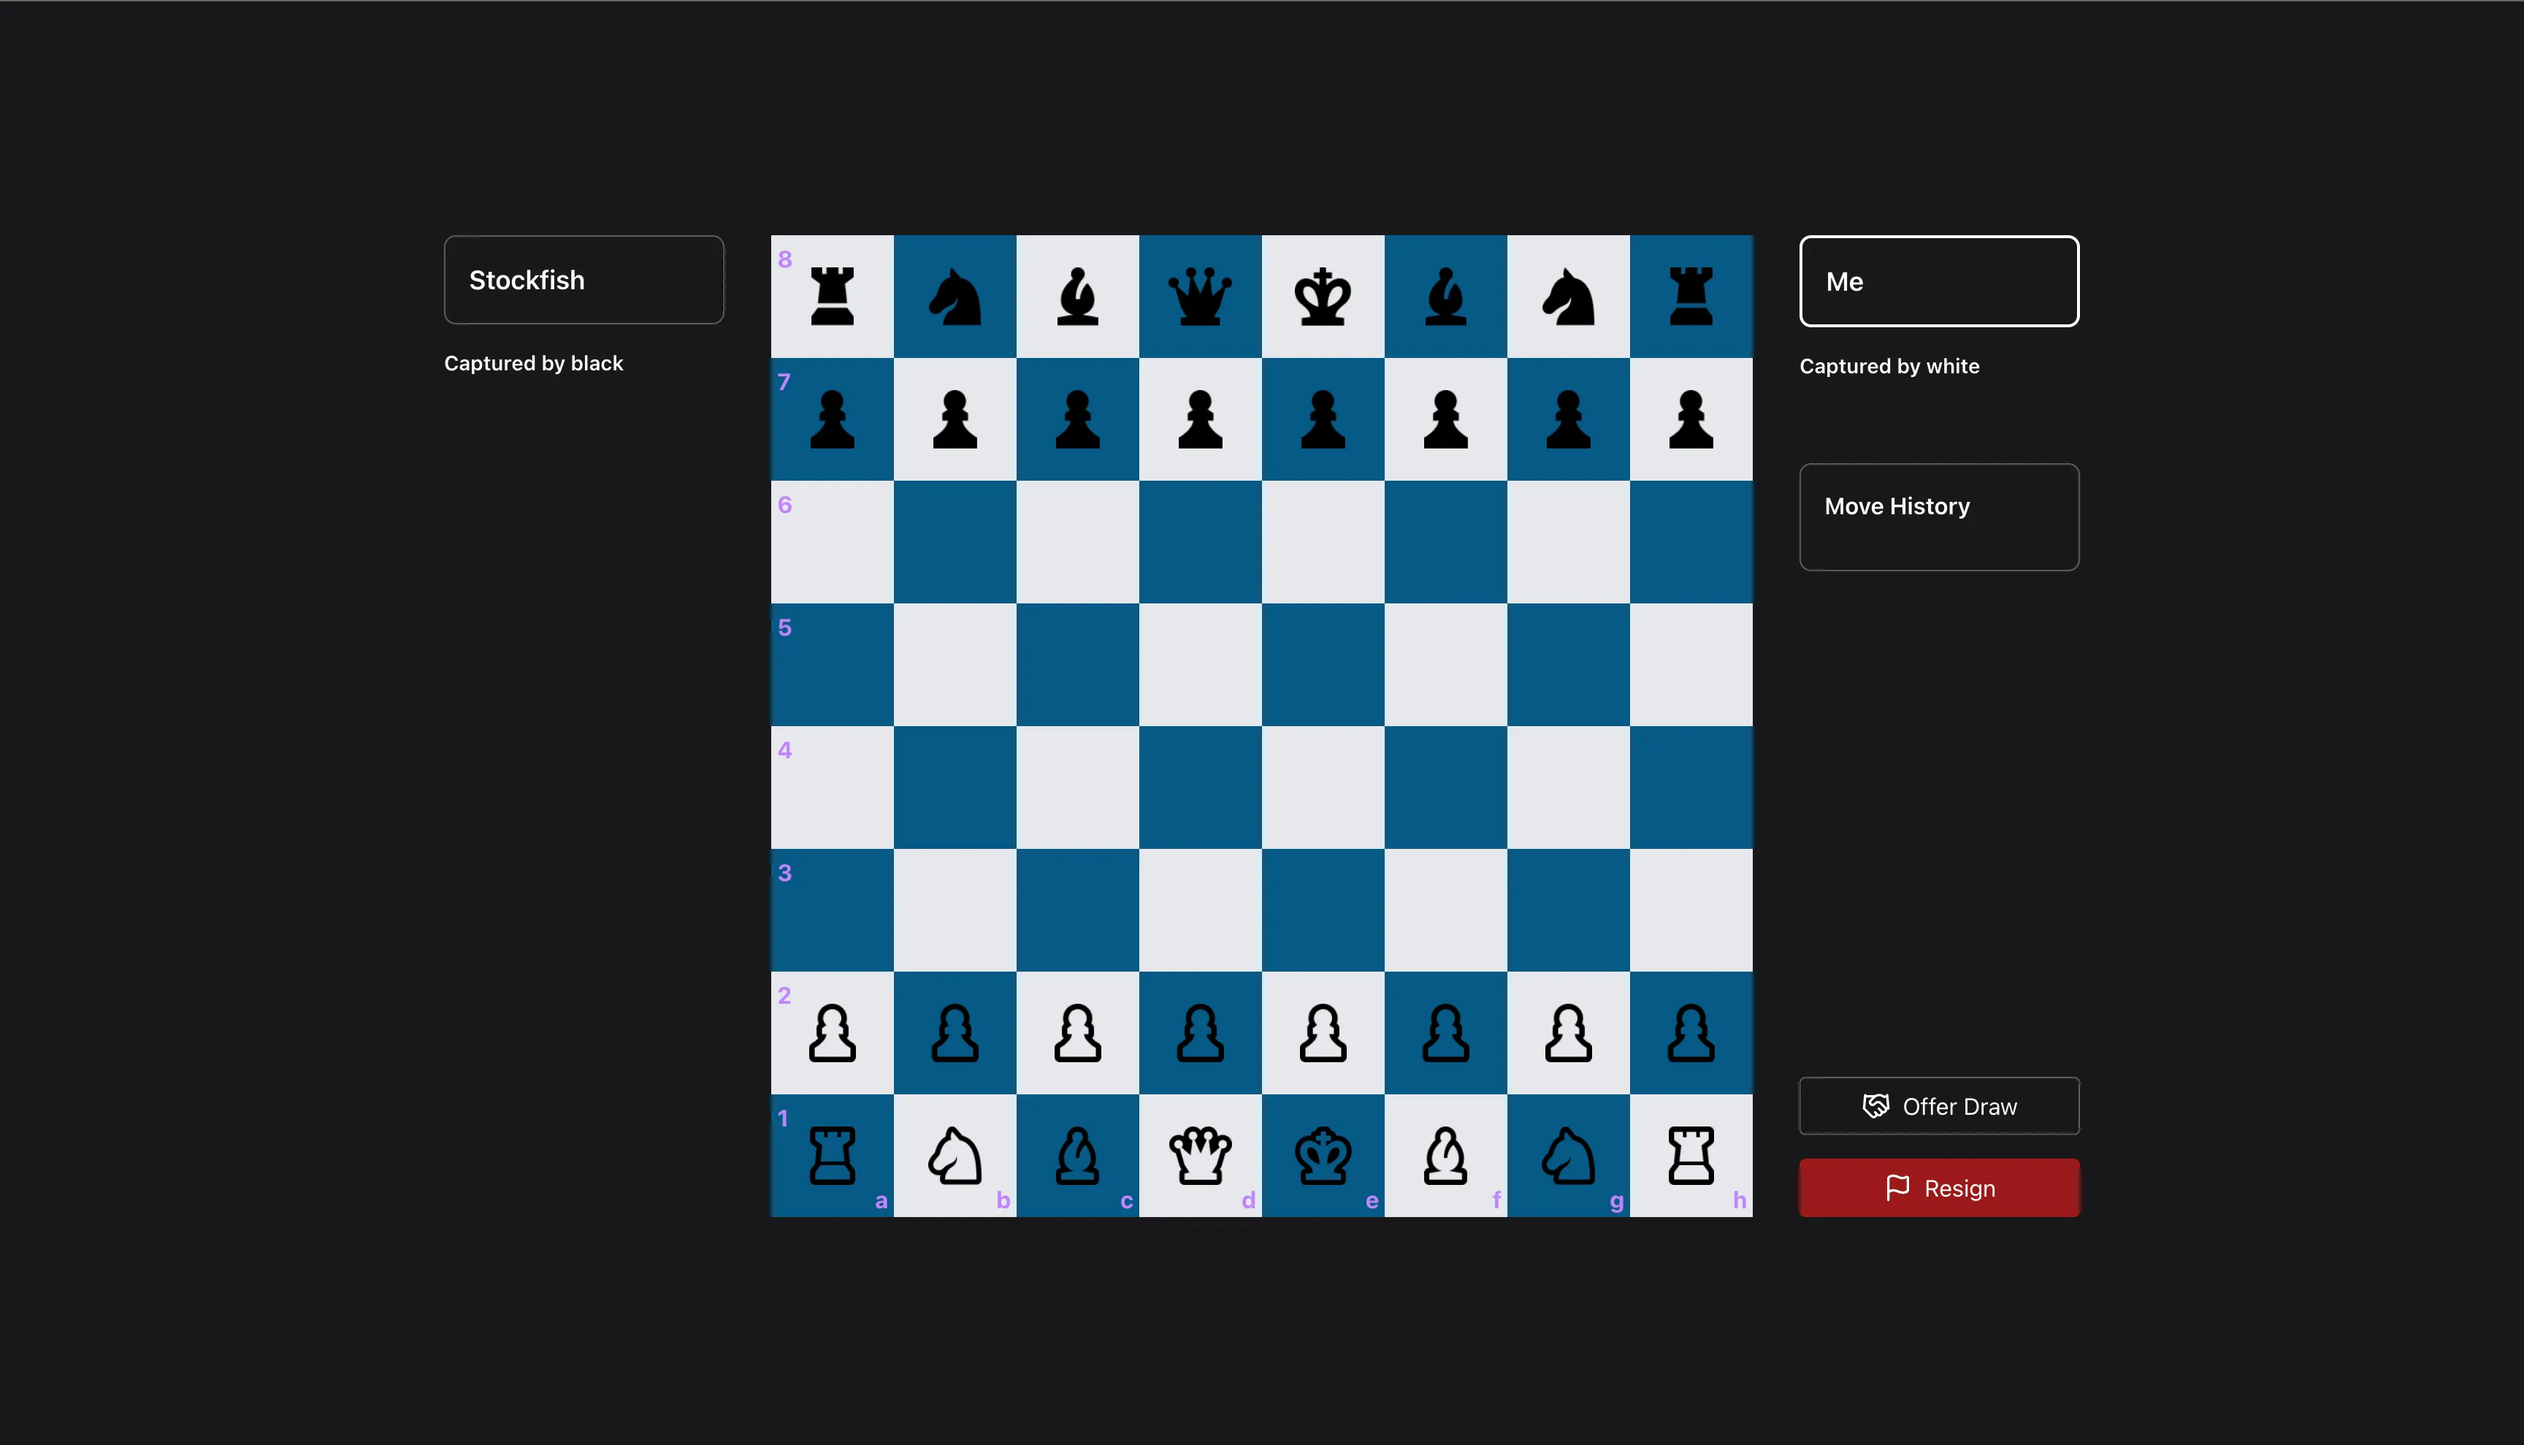
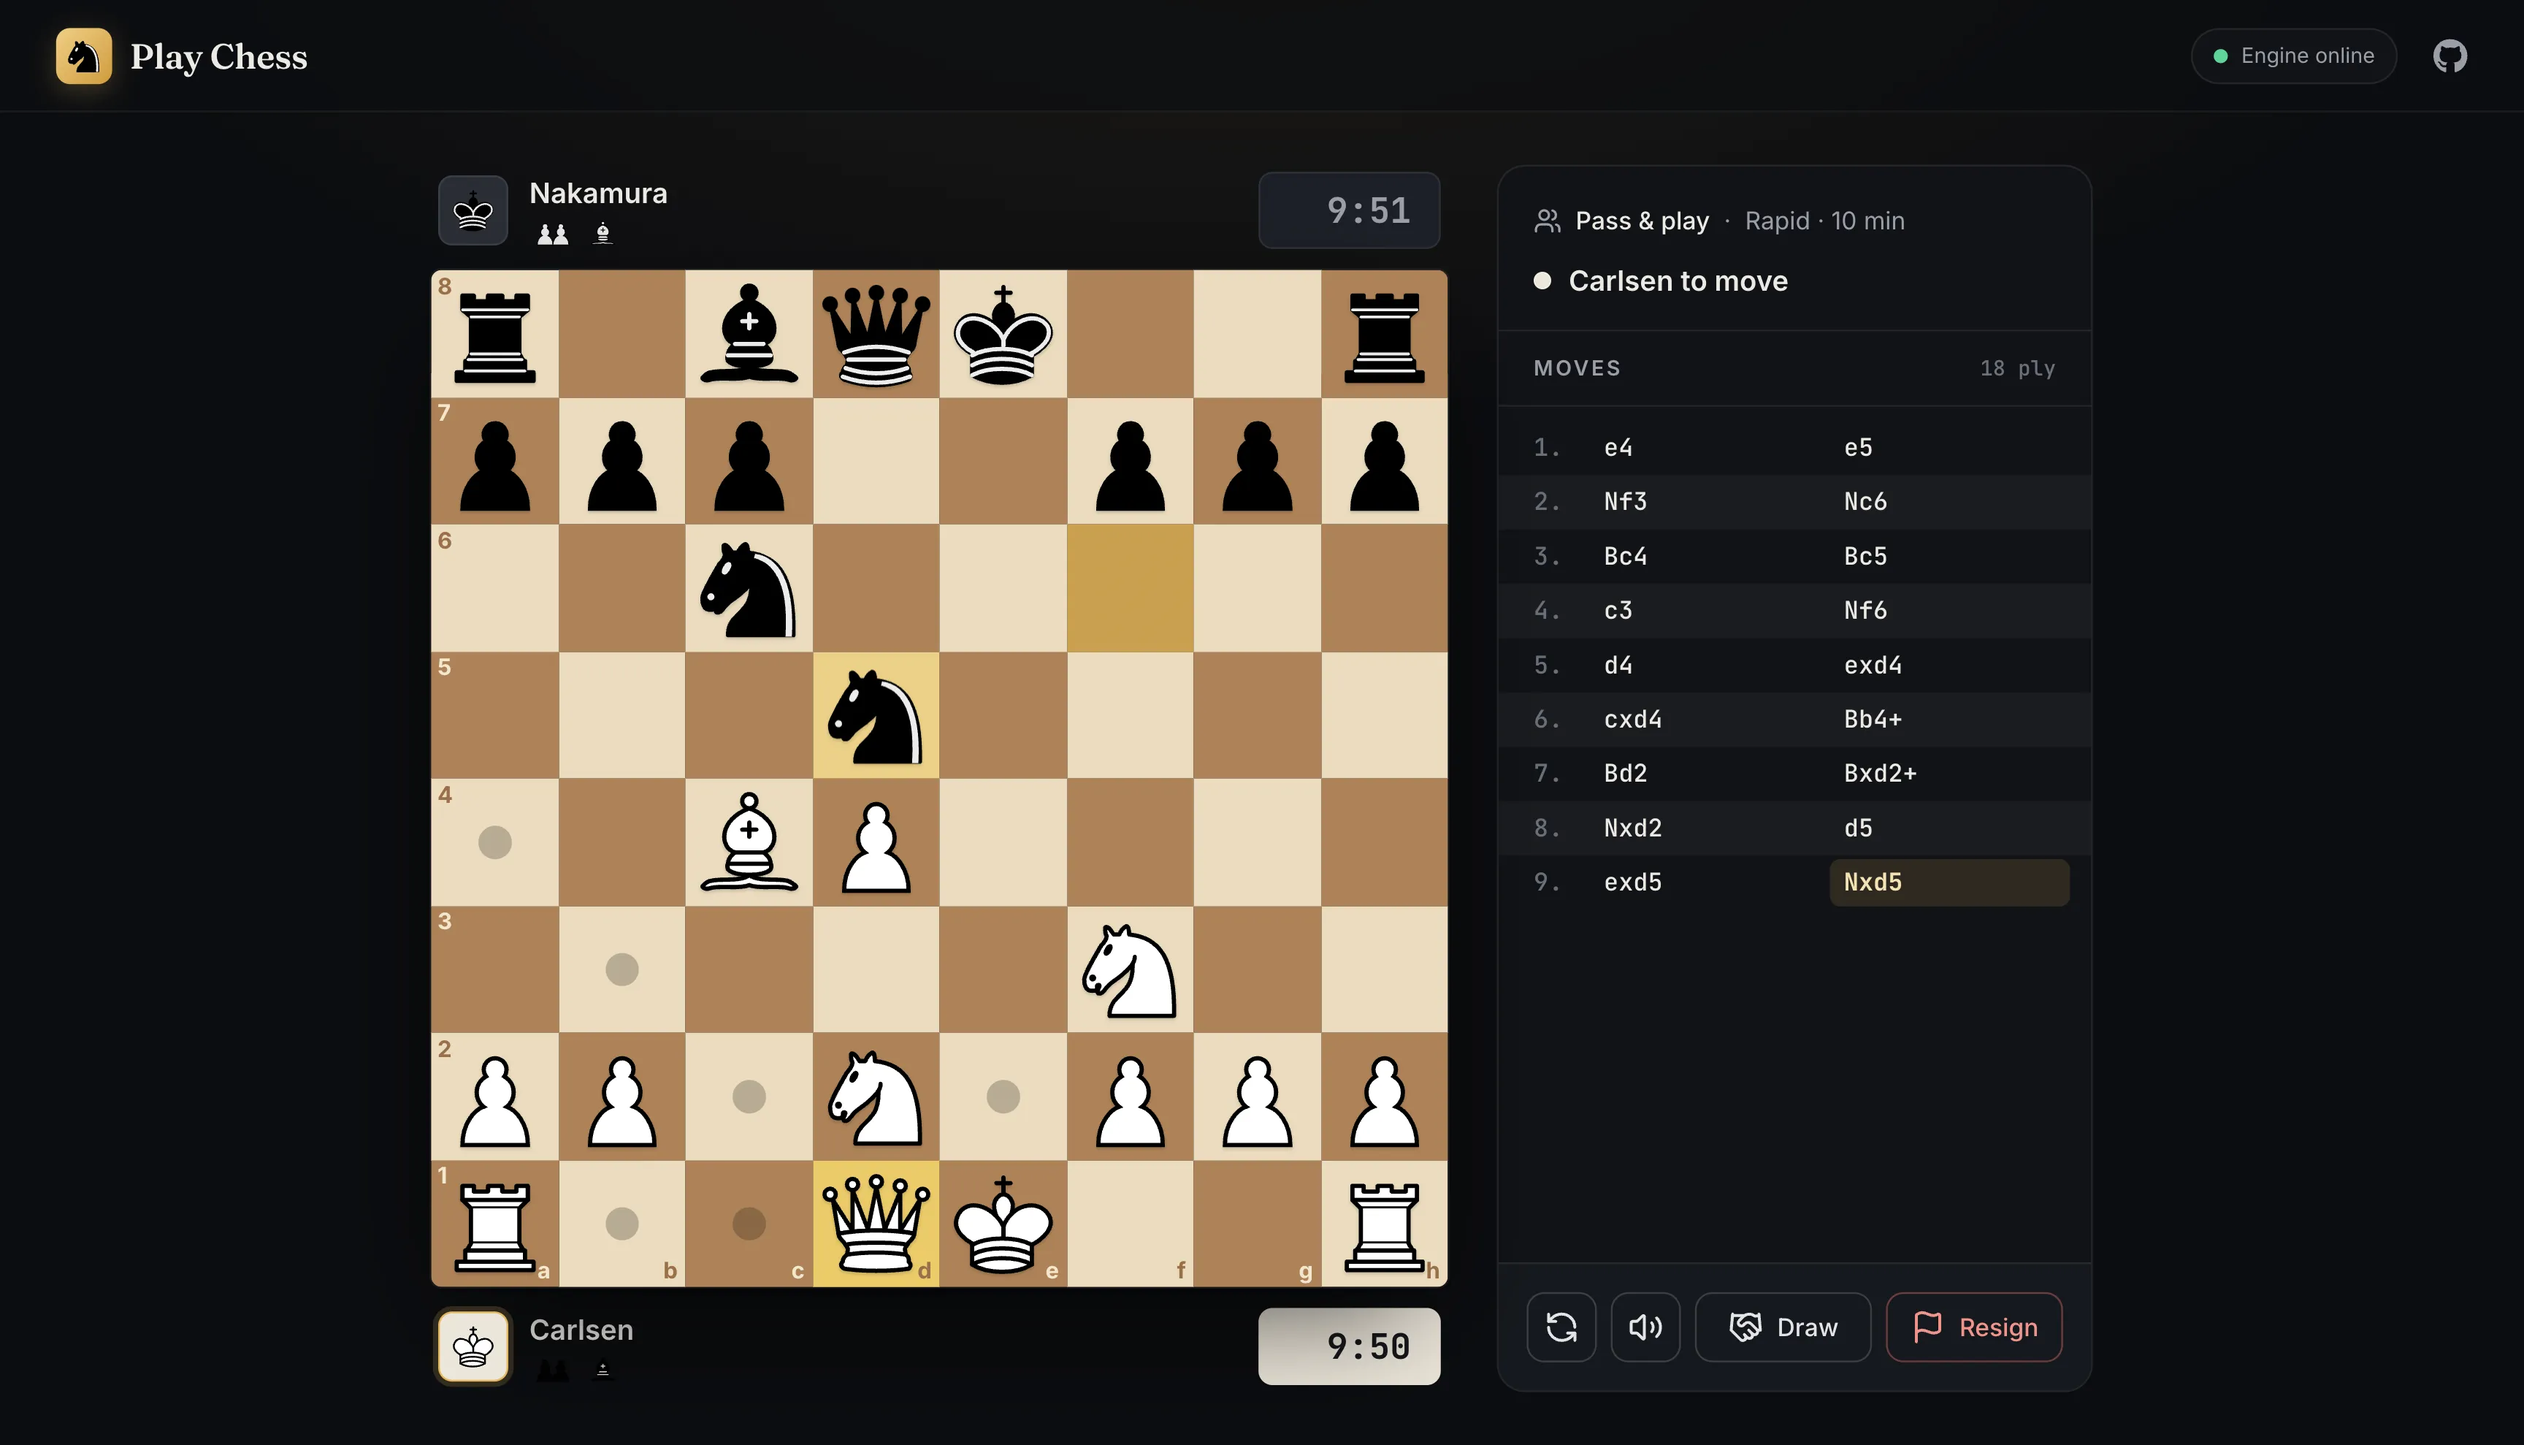
Update chess project screenshot and description

diff --git a/src/data/projectData.ts b/src/data/projectData.ts
@@ -14,9 +14,9 @@ const ProjectData = [
   },
   {
     name: 'Chess',
-    techStack: ['.NET', 'React', 'Typescript'],
+    techStack: ['.NET', 'React', 'TypeScript'],
     description:
-      'A full-stack chess application built with .NET and React, featuring real-time move validation, game state tracking, and Stockfish integration for AI-powered analysis.',
+      'A full-stack chess application with a .NET API that enforces the complete rules of chess and a React front end. Play pass-and-play with chess clocks, or take on Stockfish at 21 strength levels, starting from any position.',
     source: 'https://github.com/Kyle-Close/chess',
     live: 'https://kyle-close.github.io/chess/',
     img: chessImg,
